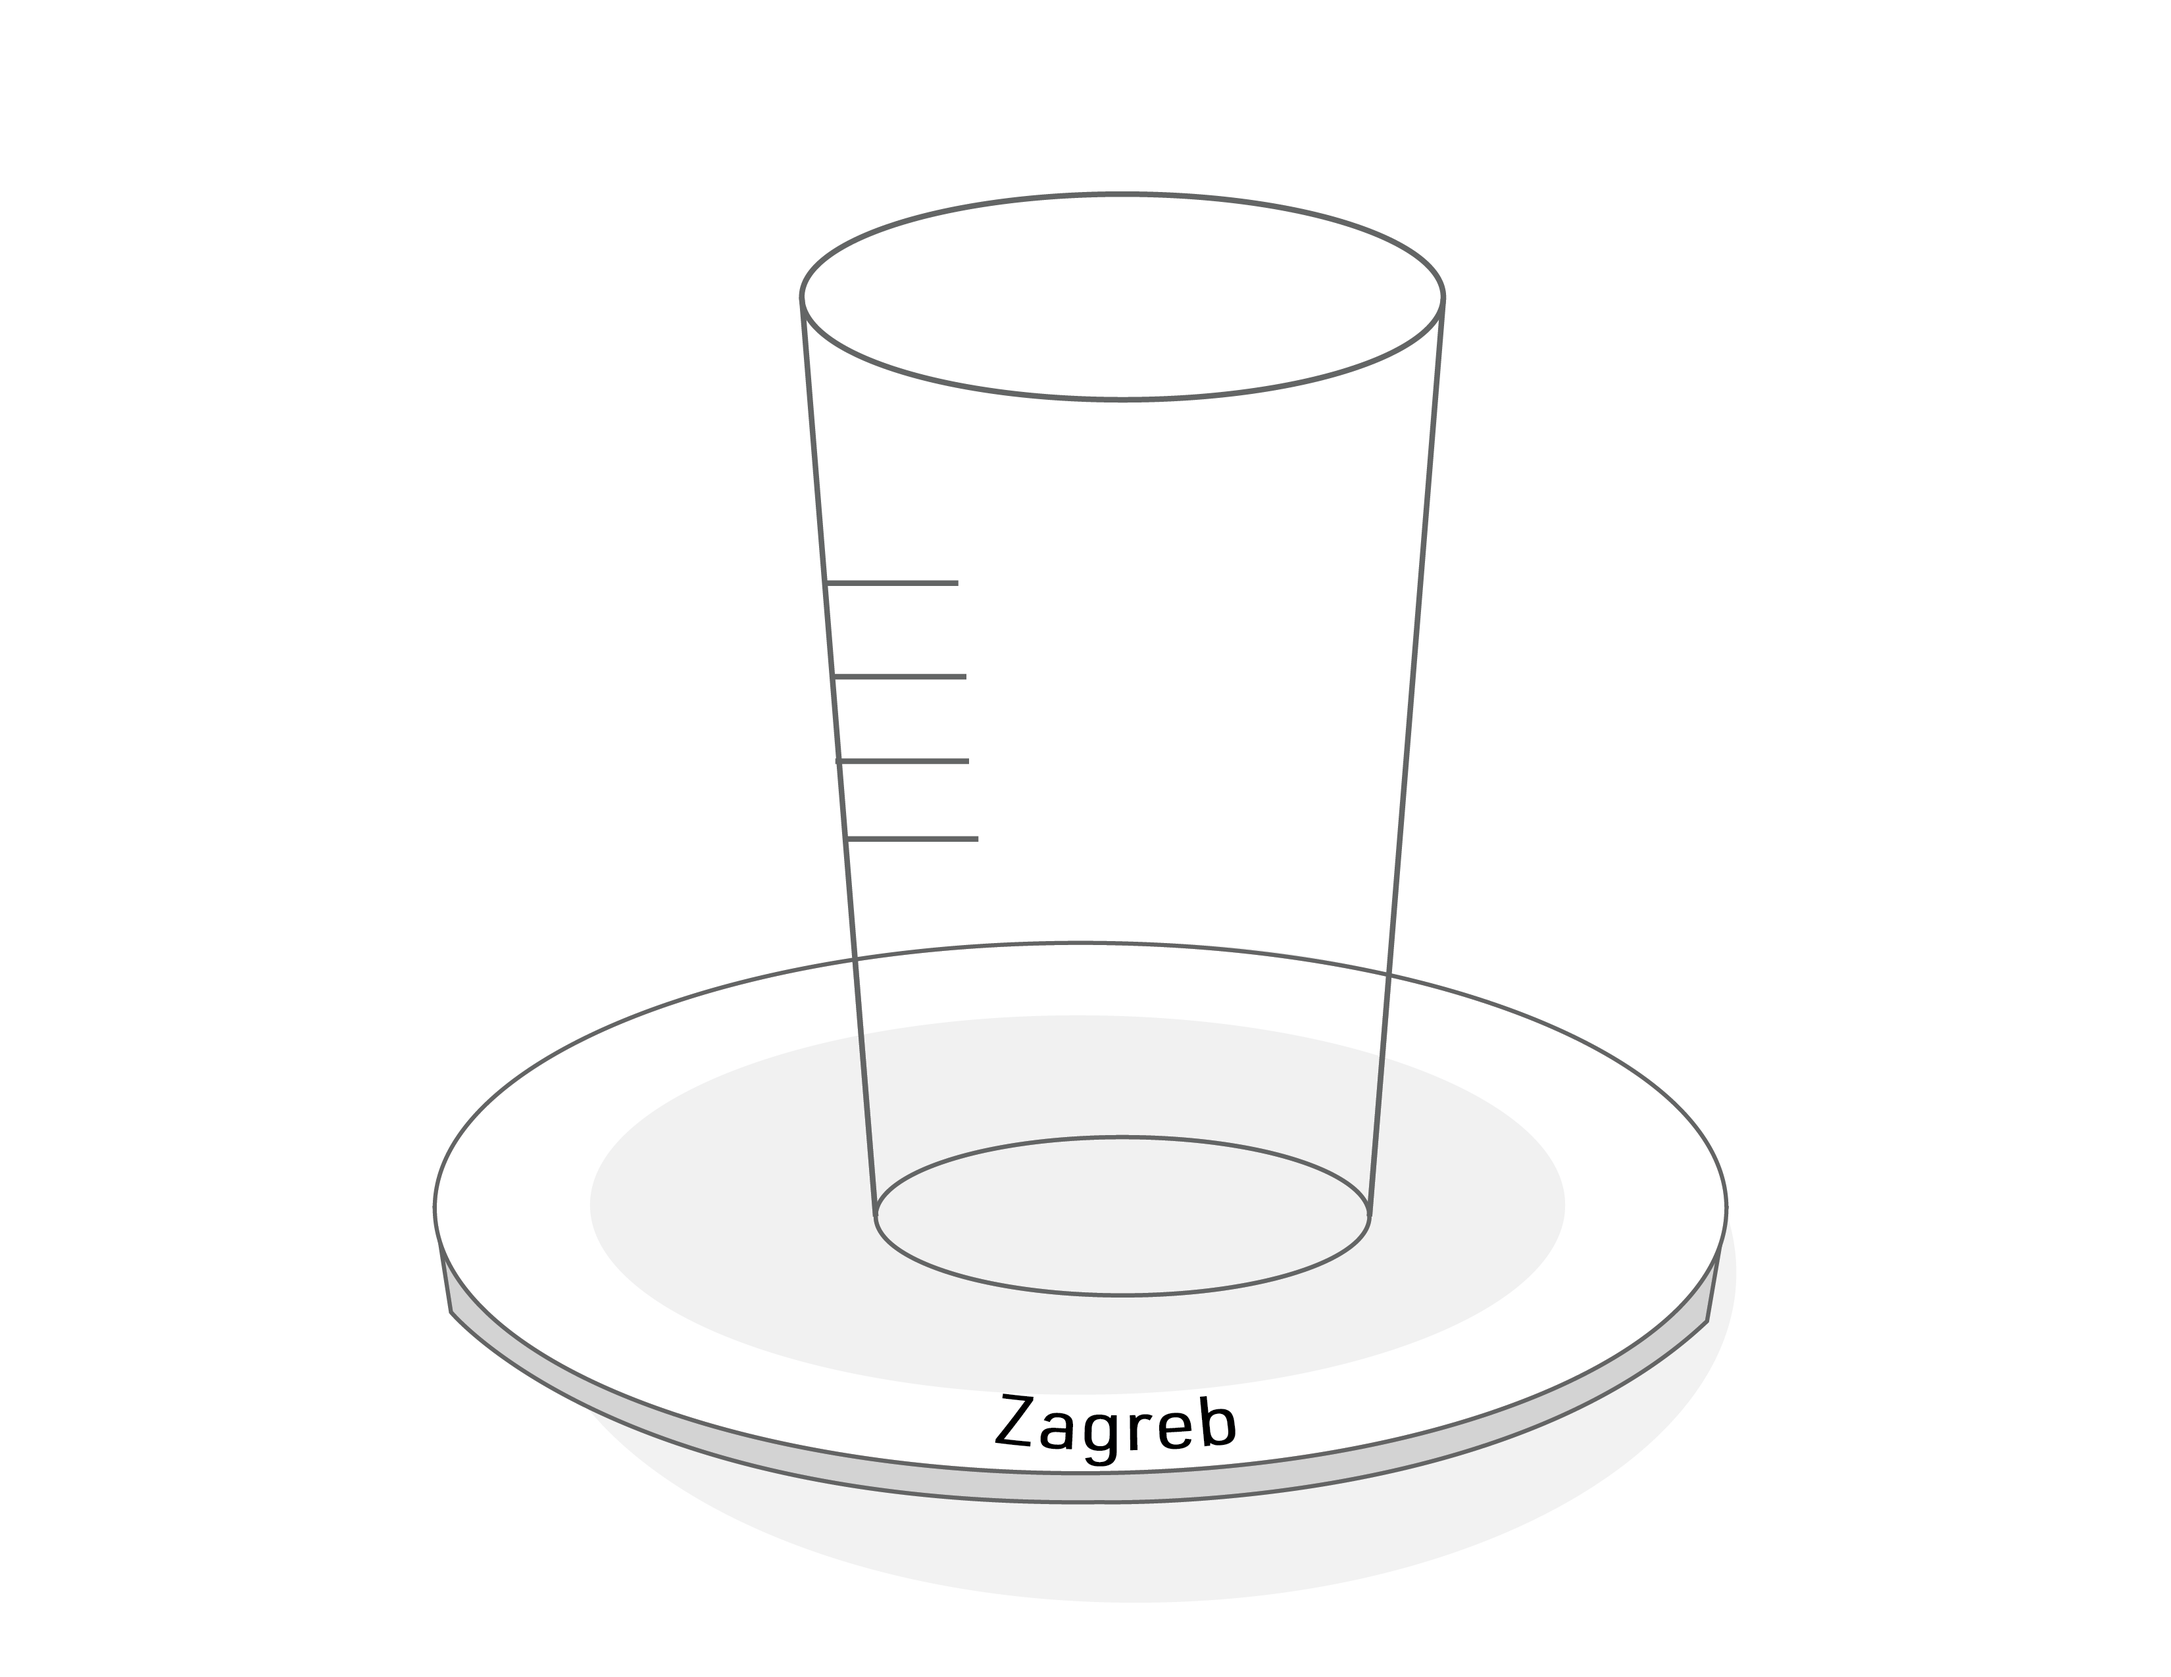
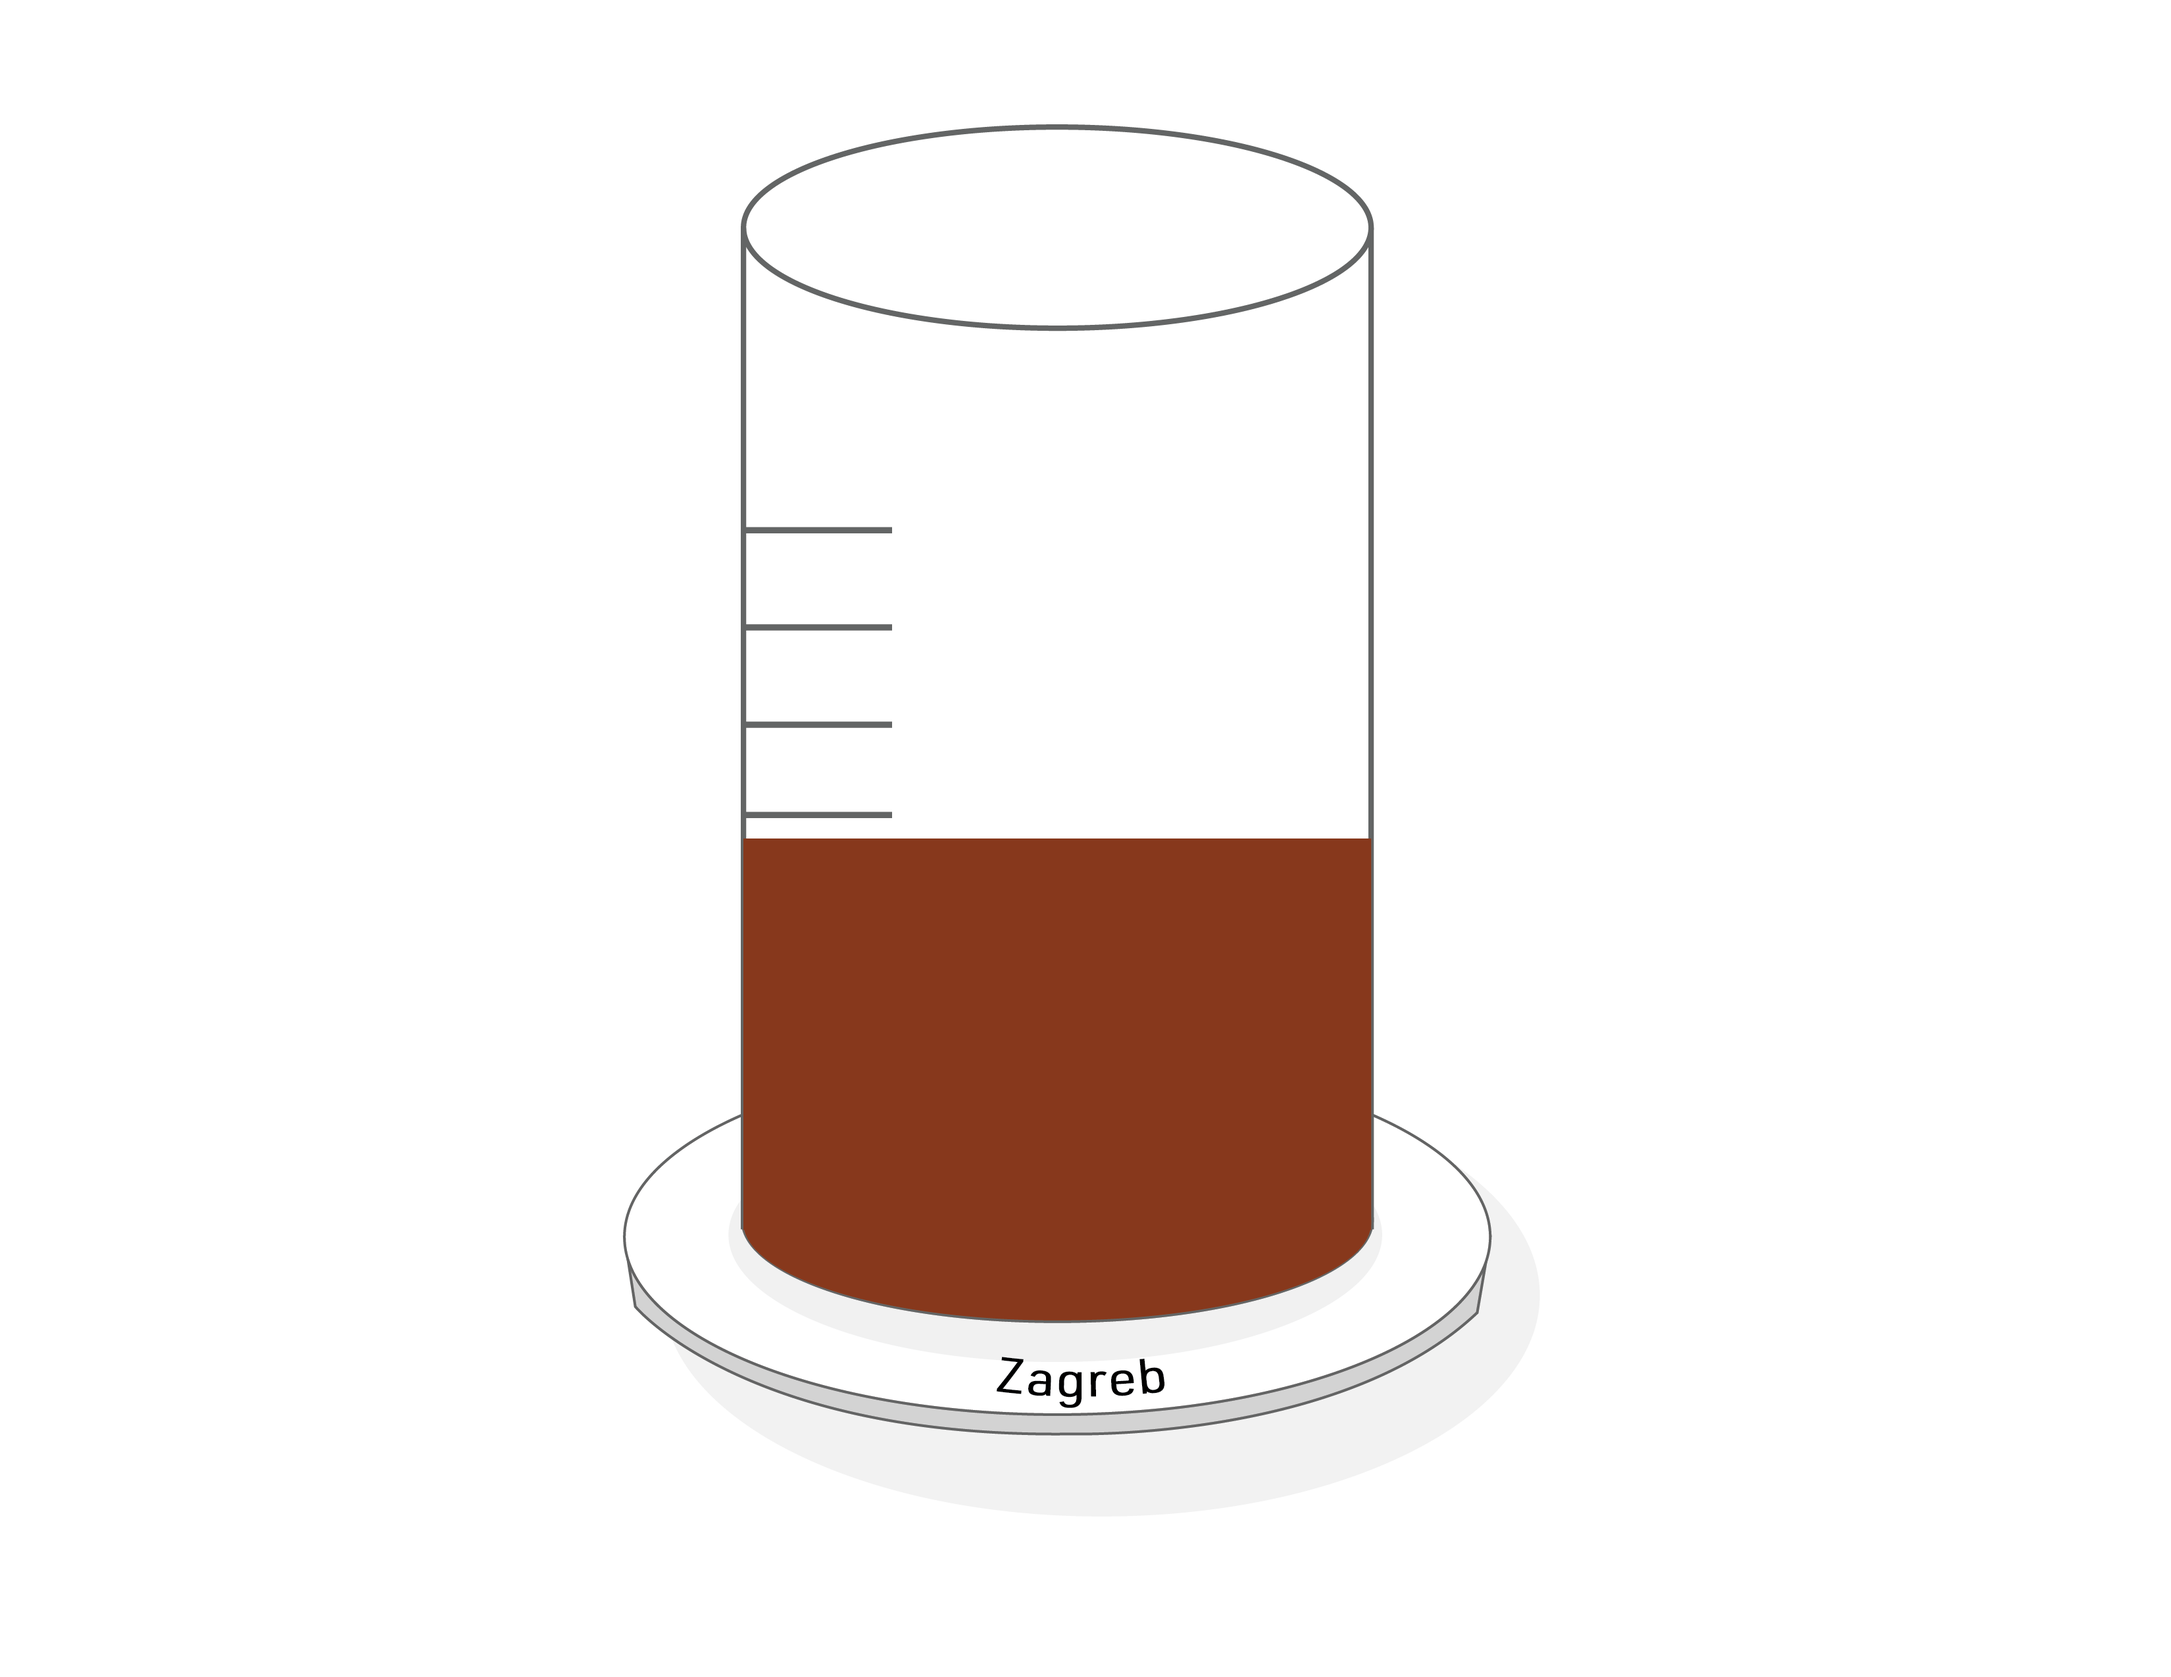
ss

diff --git a/project5/api/api.js b/project5/api/api.js
@@ -23,14 +23,14 @@ var url = 'https://api.openweathermap.org/data/2.5/weather?id=3410315&units=metr
     var humidity = data.main.humidity;
     console.log('humidity',humidity);
 
-    if (humidity < 50) {
-        $('.humidity').css("opacity","30%");
+    if (humidity < 10) {
+        $('#eggyolk').css("opacity","20%");
     }
-    else if (humidity >= 50) {
-        $('.humidity').css("opacity","70%");
+    else if (humidity >= 30) {
+        $('#eggyolk').css("opacity","60%");
     }
-    else if (humidity >= 40 & humidity <= 50) {
-        $('.humidity').css("opacity","100%");
+    else if (humidity >= 50 & humidity <= 70) {
+        $('#eggyolk').css("opacity","100%");
     }
 
   });

diff --git a/project5/api/api.css b/project5/api/api.css
@@ -13,7 +13,7 @@ body{
 	/*margin-left:300px;*/
 	/*margin-top:300px;*/
 	cursor: pointer;
-  	margin-top: 200px;
+  	margin-top: 280px;
   	margin-left: 190px;
   	
 }
@@ -50,13 +50,14 @@ body{
 }
 
 #coke {
-	
-  	border-bottom: 100px solid brown;
-    border-left: 25px solid transparent;
-    border-right: 25px solid transparent;
-    border-radius: 100px / 50px;
-    height: 100;
-    width: 10px;	
+	position: absolute;
+	left:860px;
+	top:200px;
+  	border-bottom: 100px solid #86381c;
+    border-left: 75px solid #86381c;
+    /*border-right: 15px solid transparent;*/
+    border-radius: 100px / 20px;
+    width: 60px;	
 }
 
 
